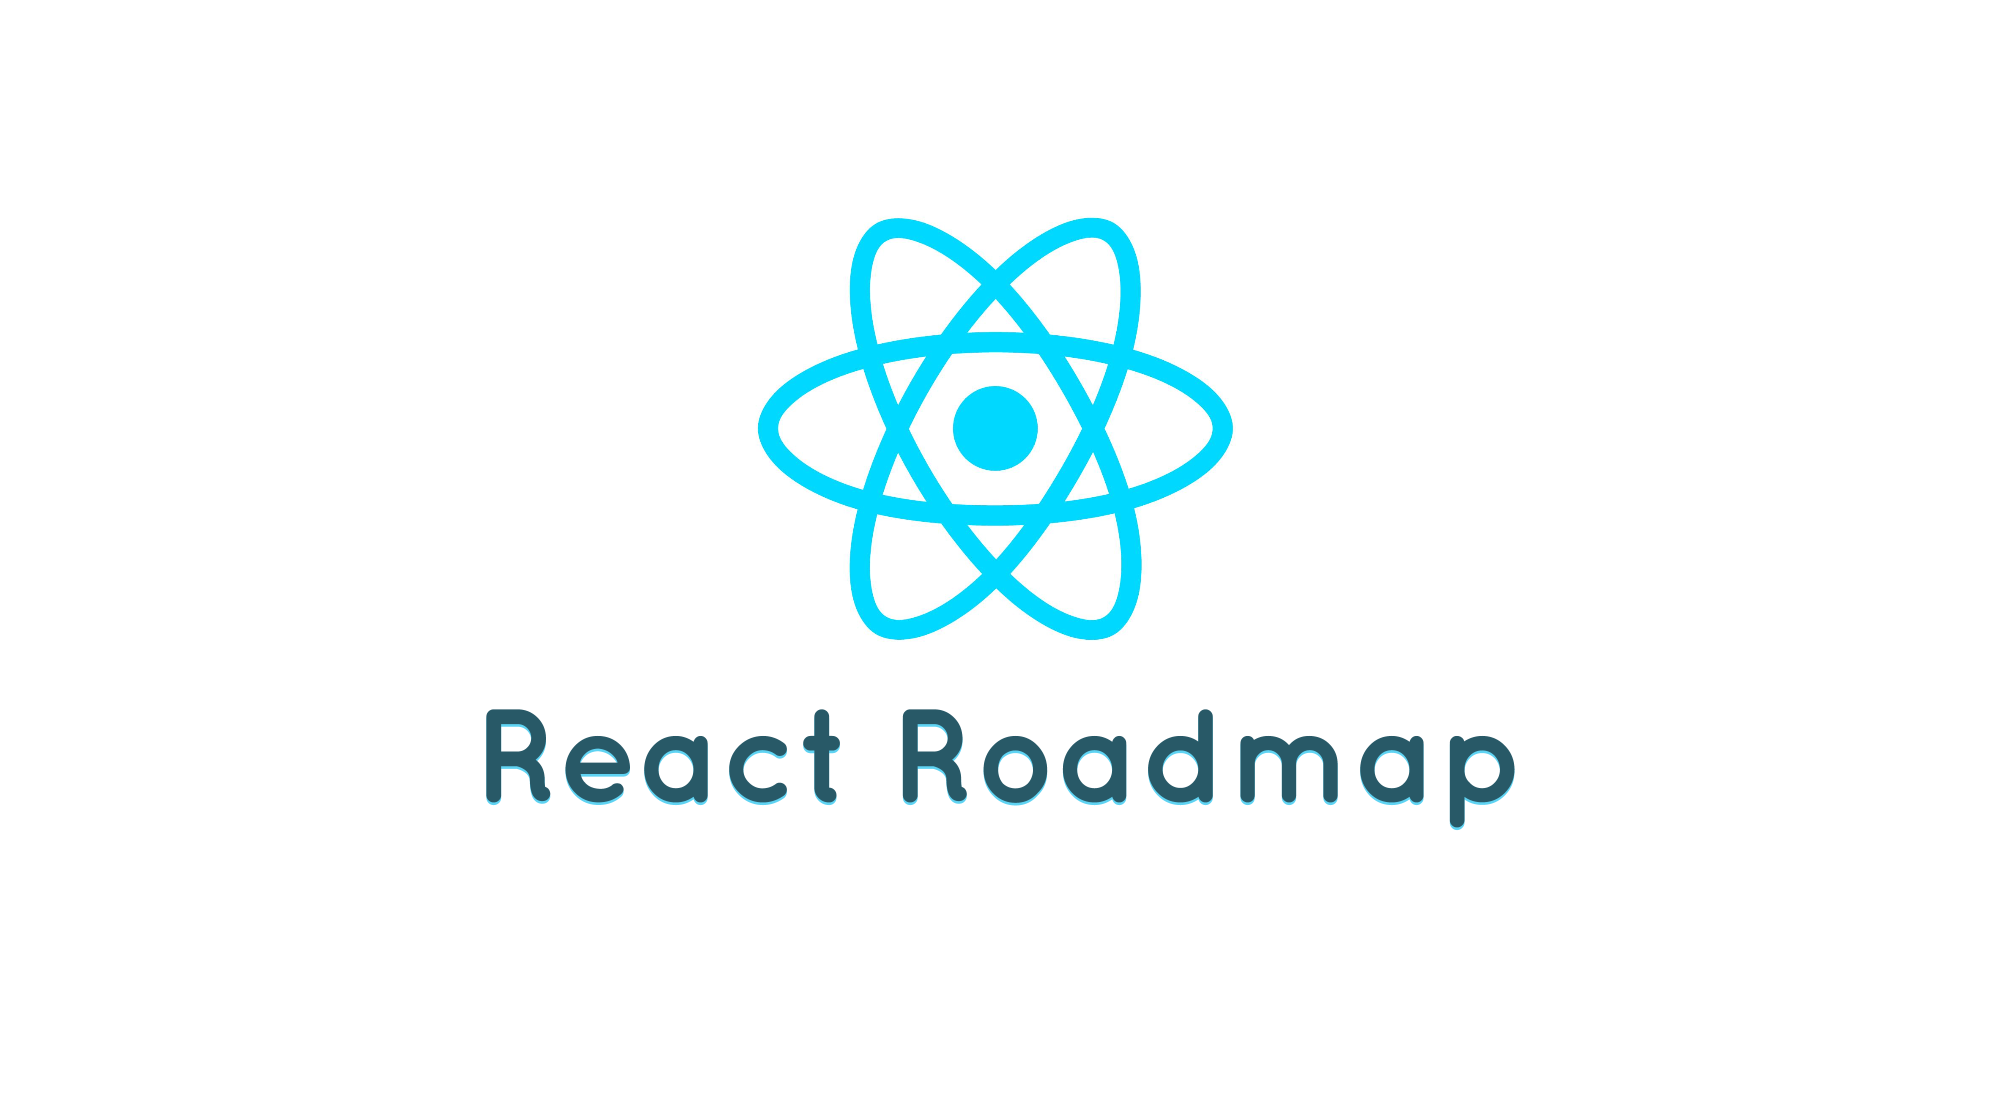
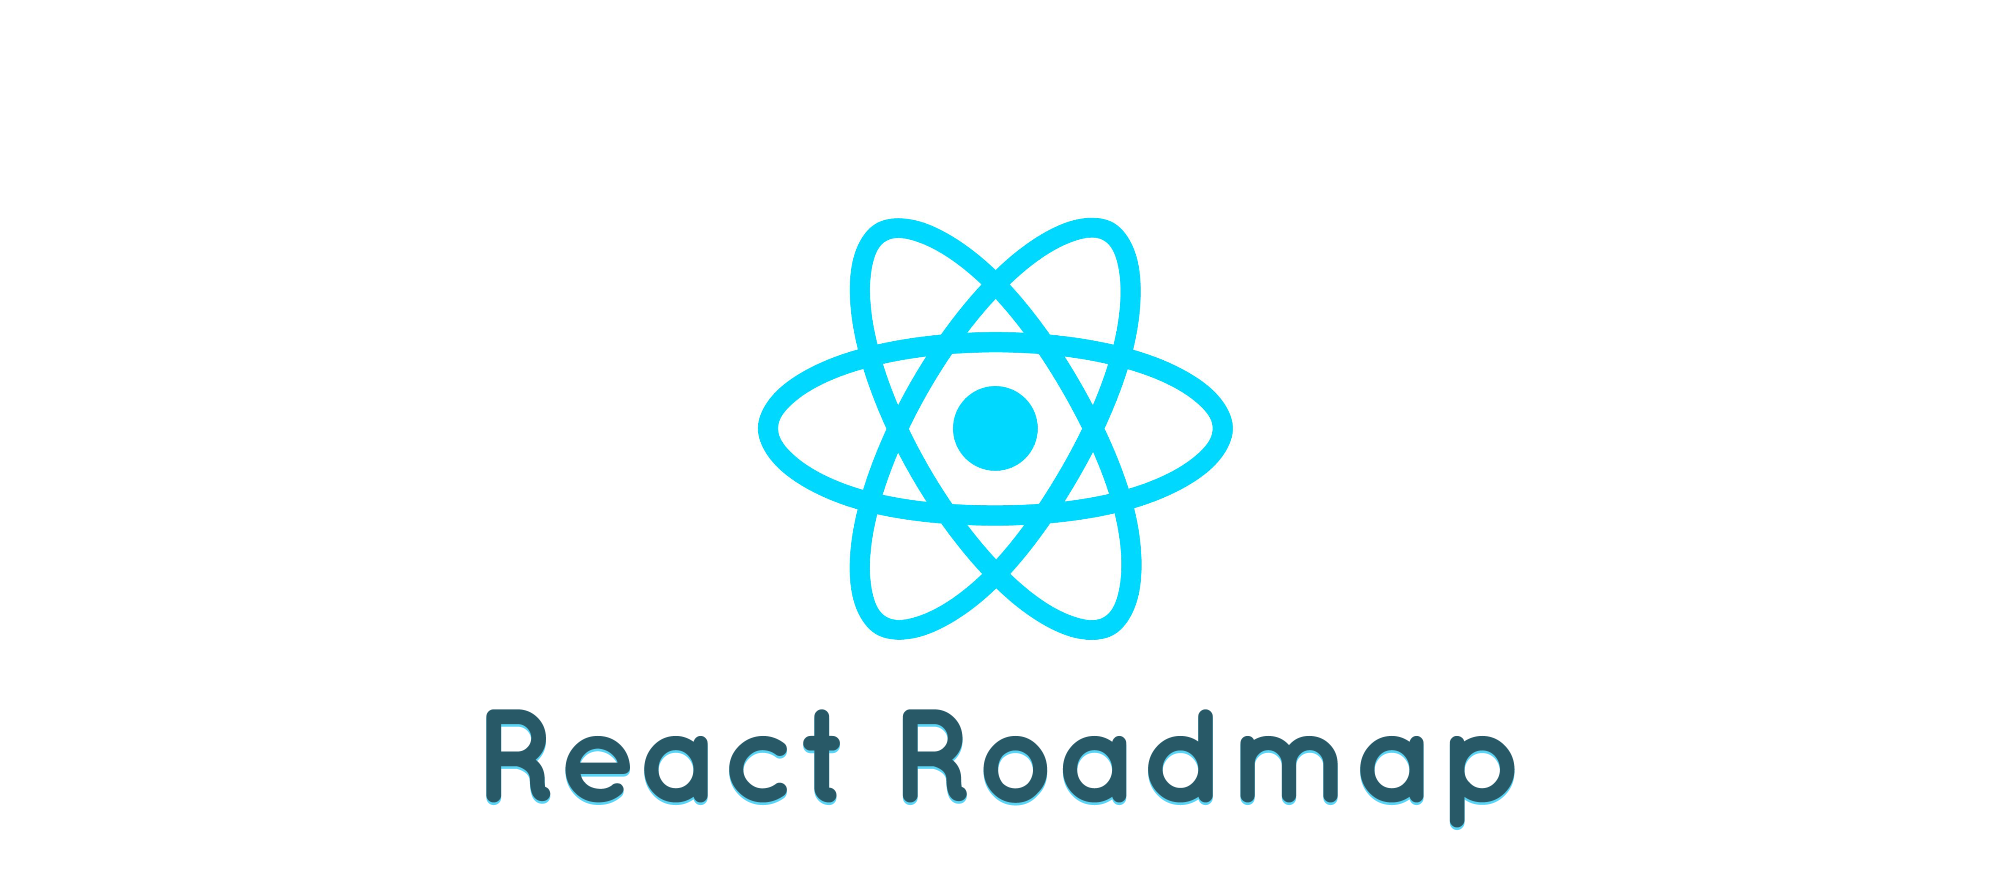
Fix header

Changed region(s): [[0.217, 0.1822, 0.775, 0.7593], [0.217, 0.7897, 0.775, 0.9415]]

diff --git a/README.md b/README.md
@@ -1,7 +1,5 @@
 ![React Roadmap](img/react-roadmap.png)
 
-:link: A curated list of free resources to master React Development :sparkles:
-
 <p align="center">
 	A curated list of <strong>free resources</strong> to master React Development
 </p>
